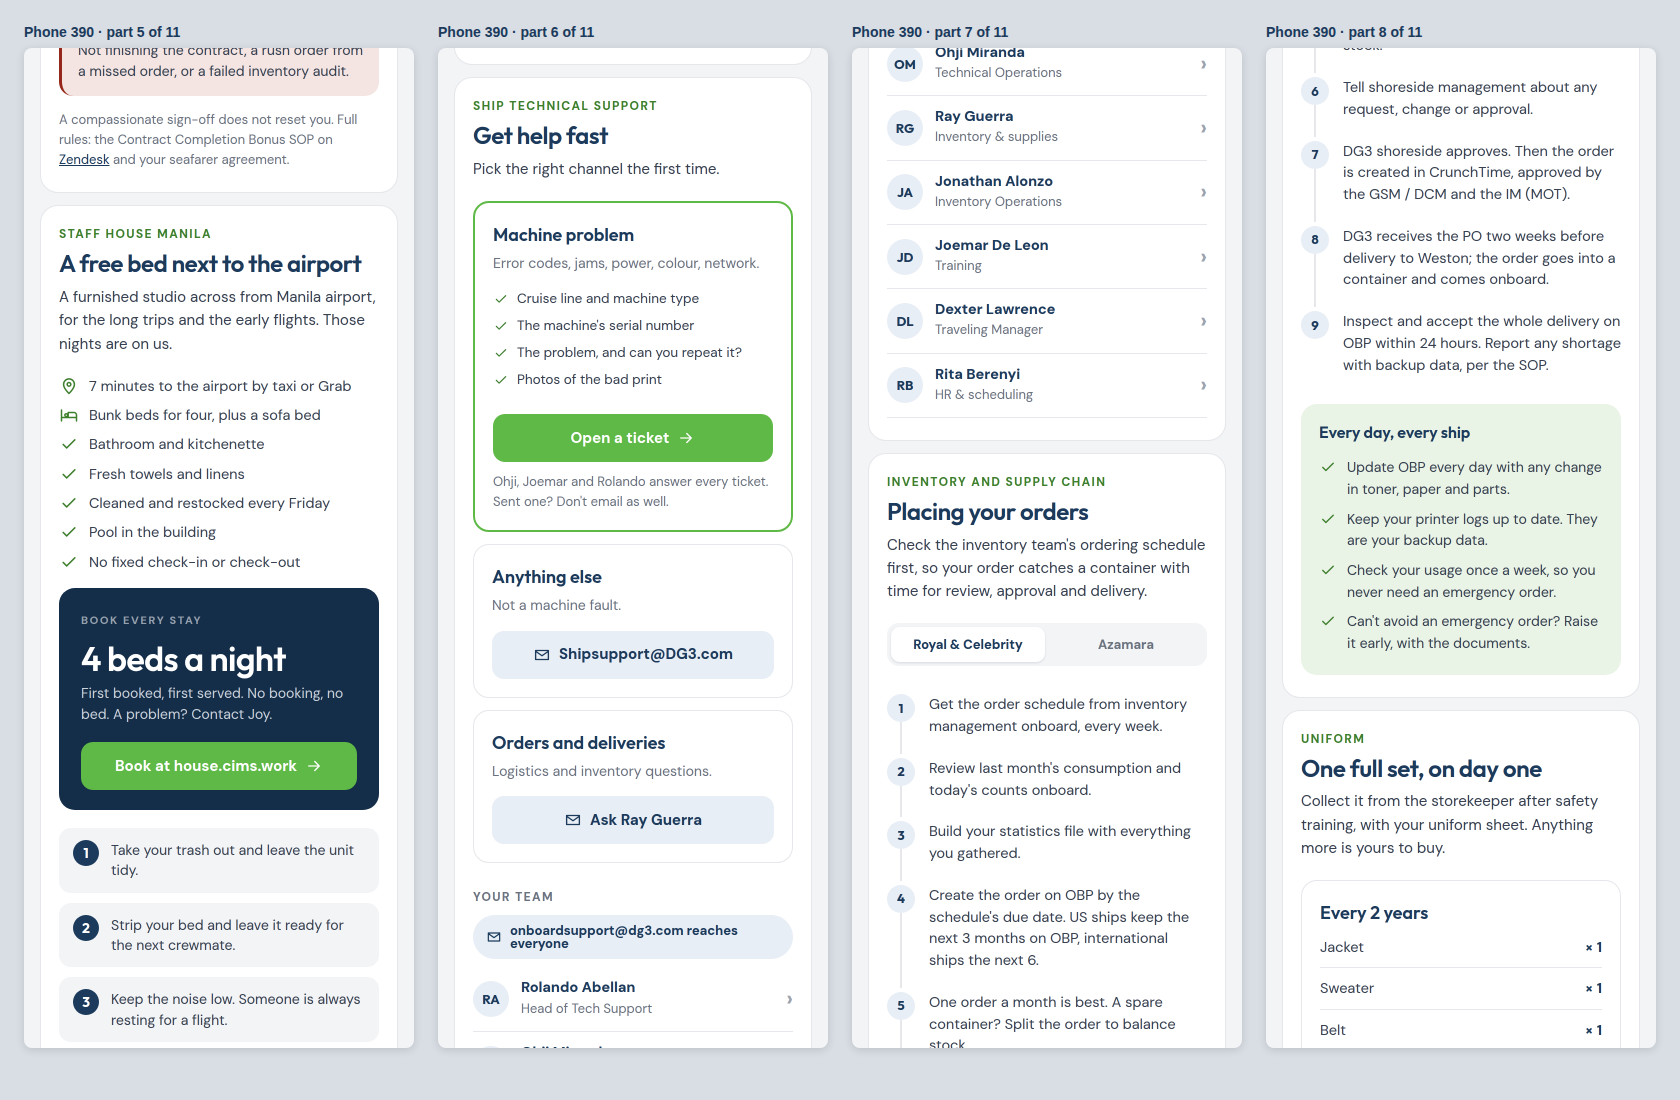
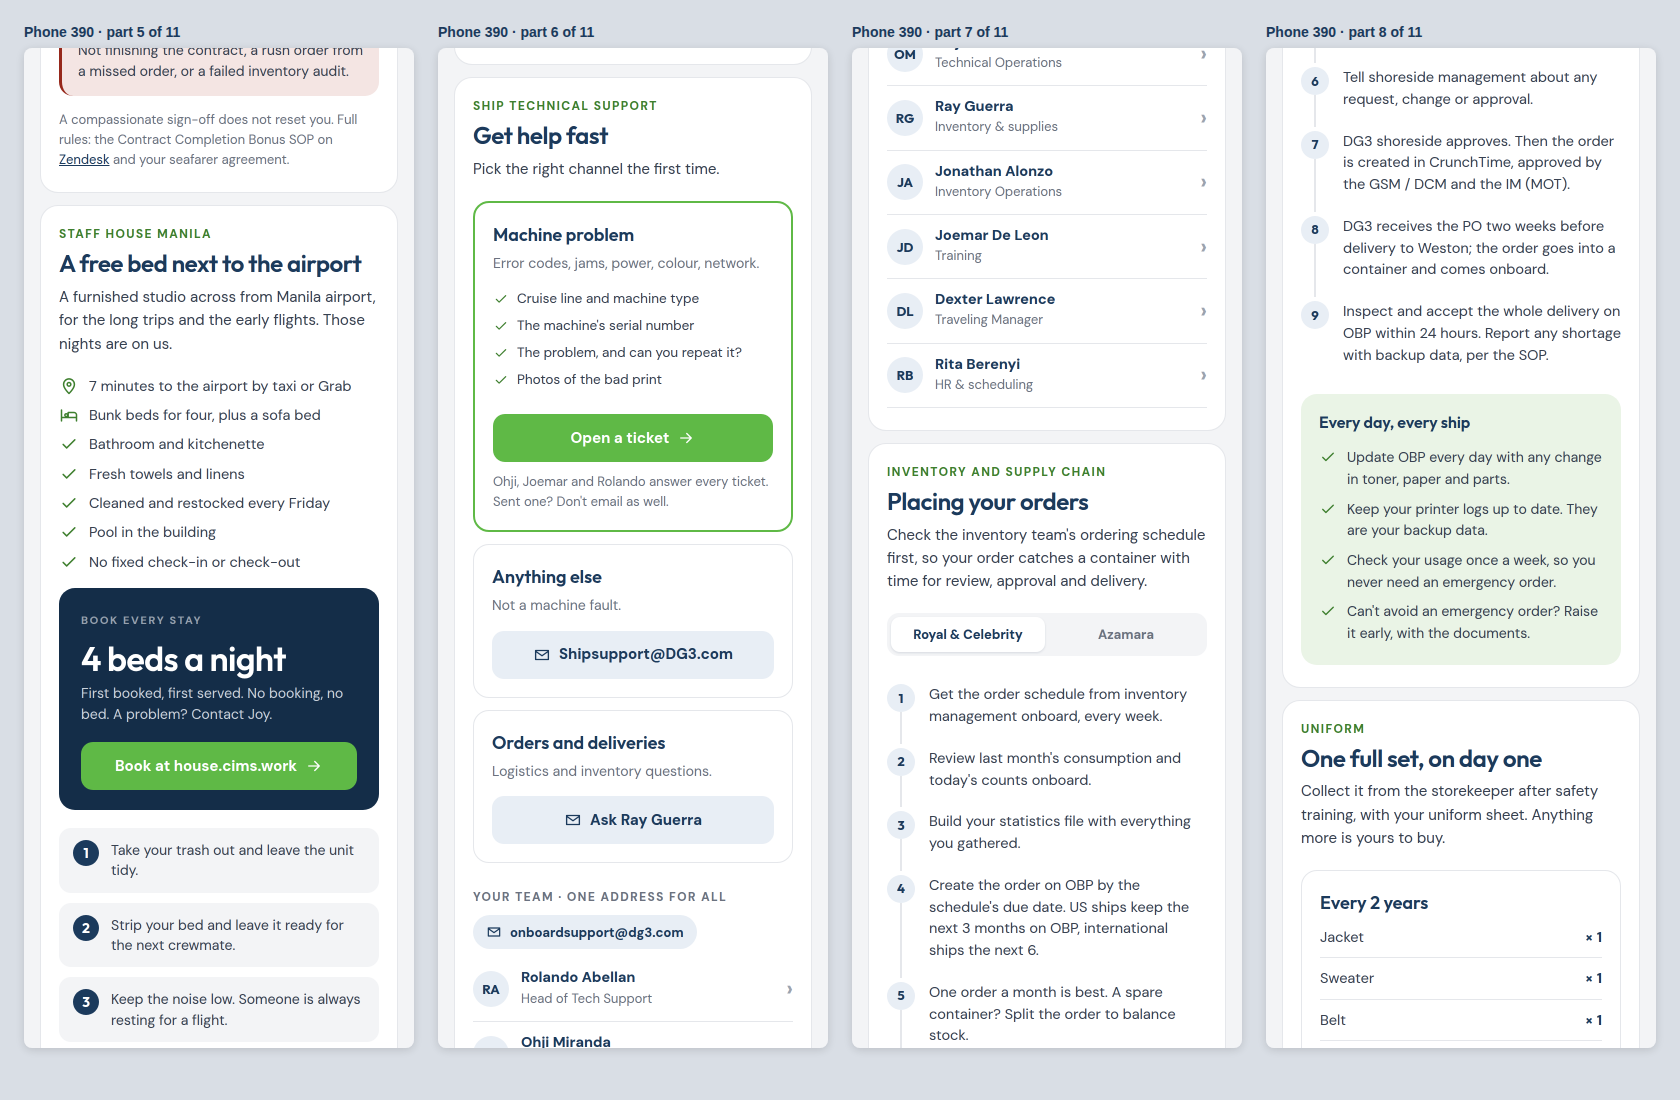
Crew Hub mock-up: the team address pill on one line on a phone
Claude-Session: https://claude.ai/code/session_01EuYojF5BUGVv2pCavfTq2y

diff --git a/docs/mockups/welcome_20261019/crew_hub.html b/docs/mockups/welcome_20261019/crew_hub.html
@@ -253,7 +253,7 @@ footer{max-width:1152px;margin:0 auto;padding:8px 16px 48px;font-size:13px;color
     <div class="hstack"><div class="hc"><h3>Anything else</h3><div class="muted">Not a machine fault.</div><a class="btn s" href="mailto:Shipsupport@DG3.com"><svg class="ic " viewBox="0 0 24 24" aria-hidden="true"><path d="M3.5 6h17v12h-17zM3.5 7l8.5 6 8.5-6"/></svg>Shipsupport@DG3.com</a></div>
     <div class="hc"><h3>Orders and deliveries</h3><div class="muted">Logistics and inventory questions.</div><a class="btn s" href="mailto:Ray.Guerra@dg3.com"><svg class="ic " viewBox="0 0 24 24" aria-hidden="true"><path d="M3.5 6h17v12h-17zM3.5 7l8.5 6 8.5-6"/></svg>Ask Ray Guerra</a></div></div>
    </div>
-   <div class="teamh"><div class="grp" style="margin:0">Your team</div><a class="pilln" href="mailto:onboardsupport@dg3.com"><svg class="ic " viewBox="0 0 24 24" aria-hidden="true"><path d="M3.5 6h17v12h-17zM3.5 7l8.5 6 8.5-6"/></svg>onboardsupport@dg3.com reaches everyone</a></div>
+   <div class="teamh"><div class="grp" style="margin:0">Your team &middot; one address for all</div><a class="pilln" href="mailto:onboardsupport@dg3.com"><svg class="ic " viewBox="0 0 24 24" aria-hidden="true"><path d="M3.5 6h17v12h-17zM3.5 7l8.5 6 8.5-6"/></svg>onboardsupport@dg3.com</a></div>
    <ul class="team"><li><a class="tm" href="mailto:Rolando.Abellan@dg3.com"><span class="av">RA</span><span><b>Rolando Abellan</b><span>Head of Tech Support</span></span><span class="em">Email</span></a></li><li><a class="tm" href="mailto:Ohji.Miranda@dg3.com"><span class="av">OM</span><span><b>Ohji Miranda</b><span>Technical Operations</span></span><span class="em">Email</span></a></li><li><a class="tm" href="mailto:Ray.Guerra@dg3.com"><span class="av">RG</span><span><b>Ray Guerra</b><span>Inventory &amp; supplies</span></span><span class="em">Email</span></a></li><li><a class="tm" href="mailto:Jonathan.Alonzo@dg3.com"><span class="av">JA</span><span><b>Jonathan Alonzo</b><span>Inventory Operations</span></span><span class="em">Email</span></a></li><li><a class="tm" href="mailto:Joemar.Deleon@dg3.com"><span class="av">JD</span><span><b>Joemar De Leon</b><span>Training</span></span><span class="em">Email</span></a></li><li><a class="tm" href="mailto:Dexter.Lawrence@dg3.com"><span class="av">DL</span><span><b>Dexter Lawrence</b><span>Traveling Manager</span></span><span class="em">Email</span></a></li><li><a class="tm" href="mailto:Rita.Berenyi@dg3.com"><span class="av">RB</span><span><b>Rita Berenyi</b><span>HR &amp; scheduling</span></span><span class="em">Email</span></a></li></ul>
   </section>
 
